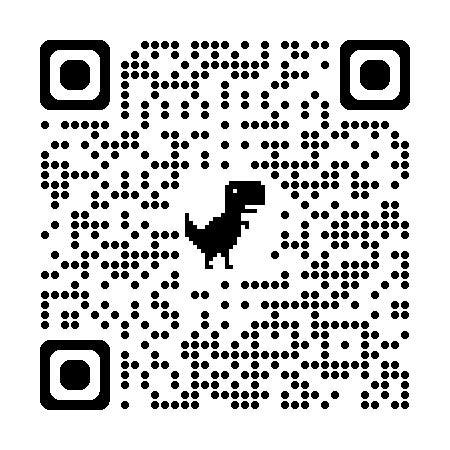
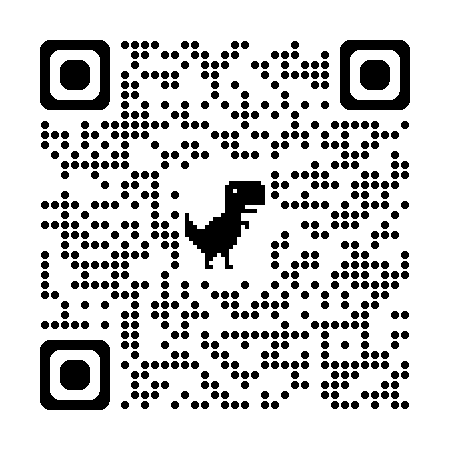
feat : KiDO

diff --git a/kido/qr.html b/kido/qr.html
@@ -7,6 +7,6 @@
   </head>
   <body style="width: 100%; height: 100%; display: flex; flex-direction: column; align-items: center; justify-content: center">
     <img src="./qr.png" alt="qr code" style="width: 90%; max-width: 700px; margin: 0 auto" />
-    <a href="https://jungmin.dev/kido" style="margin: 30px 0; font-size: 40px" target="_blank">https://jungmin.dev/kido</a>
+    <a href="https://jungmin.dev/kido" style="margin: 30px 0; font-size: 40px" target="_blank">https://ki-do.netlify.app/</a>
   </body>
 </html>

diff --git a/kido/index.html b/kido/index.html
@@ -3,7 +3,7 @@
   <head>
     <meta charset="UTF-8" />
     <meta name="viewport" content="width=device-width, initial-scale=1.0" />
-    <meta http-equiv="refresh" content="0; url=https://4156-106-101-131-238.ngrok-free.app/"></meta>
+    <meta http-equiv="refresh" content="0; url=https://ki-do.netlify.app/"></meta>
     <title>Document</title>
   </head>
   <body></body>
